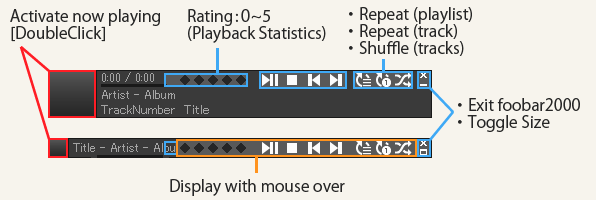
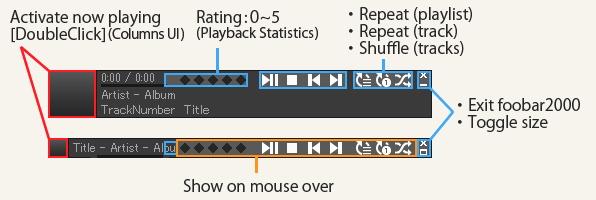
[fix]必要なコンポーネントの説明に抜けていた`Columns UI`を追加

Changed region(s): [[0.0, 0.03, 0.5738, 0.21], [0.2718, 0.9, 0.5738, 0.96], [0.8758, 0.57, 0.9362, 0.66]]

diff --git a/readme.md b/readme.md
@@ -9,10 +9,13 @@ foobar2000 component `foo_title` skin.
 ## Prerequisites
 1. [foo_title](https://github.com/TheQwertiest/foo_title)  [(Download)](https://github.com/TheQwertiest/foo_title/releases)
 1. [Playback Statistics](https://www.foobar2000.org/components/view/foo_playcount)
+    - To use `Rating`.
+1. [Columns UI](https://www.foobar2000.org/components/view/foo_ui_columns)
+    - For the `Activate now playing` command.
 
 
 ## Download
-[Release page](https://github.com/twilyze/foo_title_mini_player/releases) 
+[Release page](https://github.com/twilyze/foo_title_mini_player/releases)
 `mini_player.zip`
 
 
